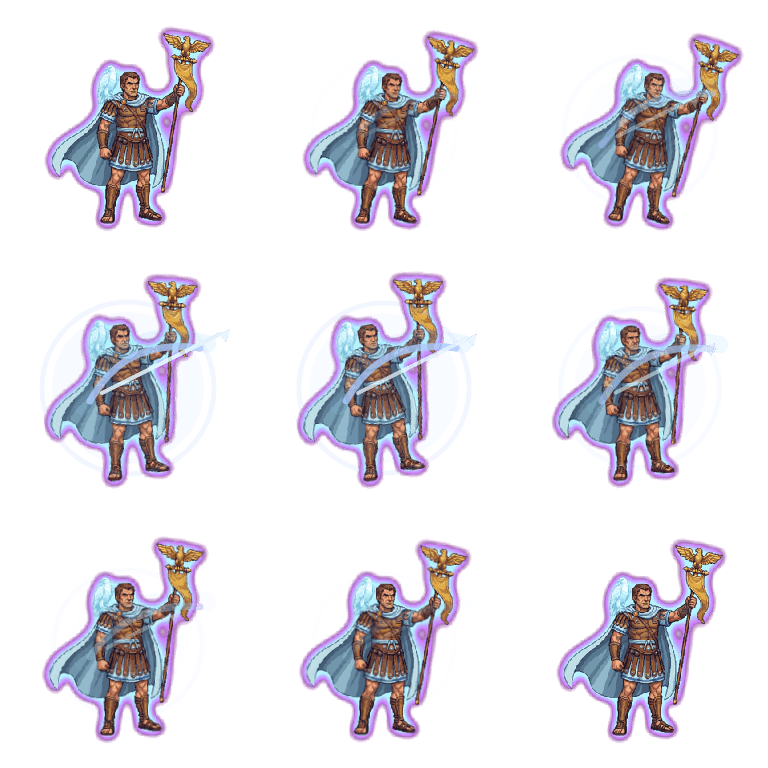
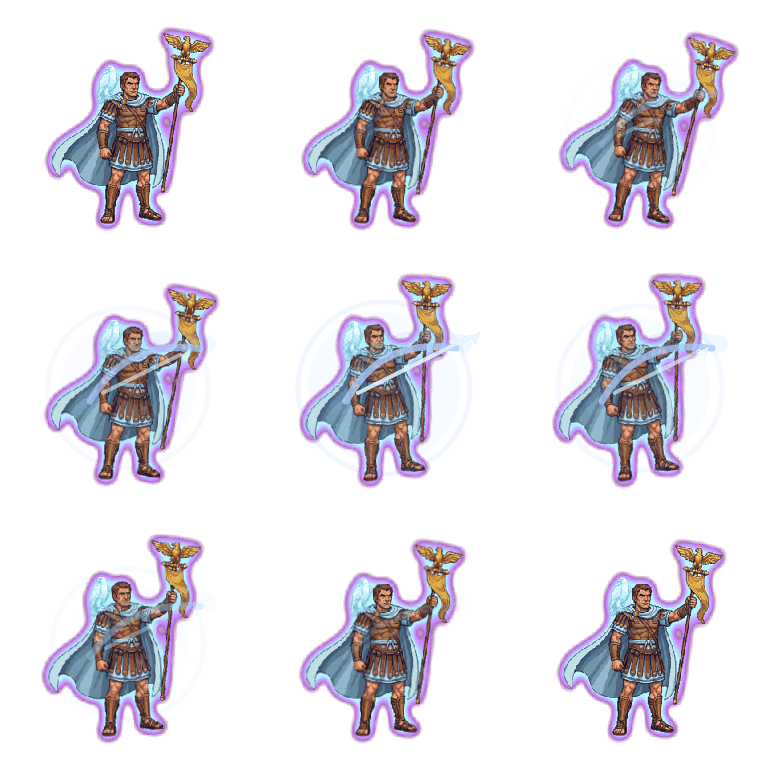
Smooth attack sprite animation cycles

diff --git a/src/render/RenderEngine.ts b/src/render/RenderEngine.ts
@@ -53,6 +53,7 @@ const HERO_ATTACK_FRAME_COUNT = 9;
 const BASE_TOWER_ATTACK_FRAME_SIZE = 128;
 const BASE_TOWER_ATTACK_FRAME_COUNT = 9;
 const ATTACK_SHEET_COLUMNS = 3;
+const HERO_ATTACK_WINDOW = 0.50;
 
 const MAX_TRANSIENT_SLASHES = 72;
 const MAX_TRANSIENT_MUZZLE_FLASHES = 96;
@@ -3472,14 +3473,14 @@ export class RenderEngine {
       // Attack flash + recoil: stronger brightening, scale jump, kickback offset
       // along the firing direction for satisfying combat feel.
       const hasBaseAttackSheet = isBaseTowerAttackAnimated(String(tw.type));
-      const flashWindow = tw.isHero ? 0.42 : hasBaseAttackSheet ? baseTowerAttackFlashWindow(String(tw.type)) : 0.18;
+      const flashWindow = tw.isHero ? HERO_ATTACK_WINDOW : hasBaseAttackSheet ? baseTowerAttackFlashWindow(String(tw.type)) : 0.18;
       const flashT = tw.attackFlash > 0 ? Math.min(1, tw.attackFlash / flashWindow) : 0;
       const heroIdentity = heroIdForTowerType(String(tw.type));
       let usingHeroAttackSheet = false;
       if (tw.isHero && heroIdentity && flashT > 0) {
         const sheetKey = HERO_ATTACK_SHEET_FOR[heroIdentity];
         const frameAge = Math.max(0, Math.min(0.999, 1 - flashT));
-        const frameIndex = Math.min(HERO_ATTACK_FRAME_COUNT - 1, 1 + Math.floor(frameAge * (HERO_ATTACK_FRAME_COUNT - 1)));
+        const frameIndex = Math.min(HERO_ATTACK_FRAME_COUNT - 1, Math.floor(frameAge * HERO_ATTACK_FRAME_COUNT));
         const attackTex = sheetKey
           ? texGridFrame(sheetKey, frameIndex, HERO_ATTACK_FRAME_SIZE, HERO_ATTACK_FRAME_SIZE, ATTACK_SHEET_COLUMNS)
           : null;
@@ -3488,7 +3489,7 @@ export class RenderEngine {
         usingHeroAttackSheet = !!attackTex;
       } else if (hasBaseAttackSheet && flashT > 0) {
         const frameAge = Math.max(0, Math.min(0.999, 1 - flashT));
-        const frameIndex = Math.min(BASE_TOWER_ATTACK_FRAME_COUNT - 1, 1 + Math.floor(frameAge * (BASE_TOWER_ATTACK_FRAME_COUNT - 1)));
+        const frameIndex = Math.min(BASE_TOWER_ATTACK_FRAME_COUNT - 1, Math.floor(frameAge * BASE_TOWER_ATTACK_FRAME_COUNT));
         const attackTex = texGridFrame(`ATTACK_${tw.type}`, frameIndex, BASE_TOWER_ATTACK_FRAME_SIZE, BASE_TOWER_ATTACK_FRAME_SIZE, ATTACK_SHEET_COLUMNS);
         const idleTex = tex(tw.type);
         entry.sp.texture = attackTex ?? idleTex ?? entry.sp.texture;

diff --git a/tests/feature_audit.test.ts b/tests/feature_audit.test.ts
@@ -112,6 +112,13 @@ describe('Every authored recipe is discoverable + executable', () => {
 // 2. Tower roster integrity
 // ───────────────────────────────────────────────────────────────────────
 describe('Tower roster integrity', () => {
+  function meanFrameDiff(a: Buffer, b: Buffer): number {
+    const len = Math.min(a.length, b.length);
+    let diff = 0;
+    for (let i = 0; i < len; i++) diff += Math.abs(a[i] - b[i]);
+    return diff / Math.max(1, len);
+  }
+
   it('every tower id in towers.json has matching TowerType enum entry', () => {
     const enumKeys = new Set(Object.values(TowerType));
     for (const tid of Object.keys(towersData as any)) {
@@ -157,6 +164,9 @@ describe('Tower roster integrity', () => {
       let tinyAlpha = 0;
       for (let i = 3; i < data.length; i += 4) if (data[i] > 0 && data[i] <= 4) tinyAlpha++;
       expect(tinyAlpha, `${id} hero attack sheet has barely-visible alpha dust that can look like a dirty background`).toBe(0);
+      const first = await sharp(file).extract({ left: 0, top: 0, width: 256, height: 256 }).ensureAlpha().raw().toBuffer();
+      const ninth = await sharp(file).extract({ left: 512, top: 512, width: 256, height: 256 }).ensureAlpha().raw().toBuffer();
+      expect(meanFrameDiff(first, ninth), `${id} hero attack frame 9 should visibly settle back to idle frame 1`).toBeLessThan(0.05);
     }
   });
 
@@ -181,6 +191,9 @@ describe('Tower roster integrity', () => {
       let tinyAlpha = 0;
       for (let i = 3; i < data.length; i += 4) if (data[i] > 0 && data[i] <= 4) tinyAlpha++;
       expect(tinyAlpha, `${id} attack sheet has barely-visible alpha dust that can look like a dirty background`).toBe(0);
+      const first = await sharp(file).extract({ left: 0, top: 0, width: 128, height: 128 }).ensureAlpha().raw().toBuffer();
+      const ninth = await sharp(file).extract({ left: 256, top: 256, width: 128, height: 128 }).ensureAlpha().raw().toBuffer();
+      expect(meanFrameDiff(first, ninth), `${id} attack frame 9 should visibly settle back to idle frame 1`).toBeLessThan(0.05);
     }
   });
 

diff --git a/src/systems/CombatResolver.ts b/src/systems/CombatResolver.ts
@@ -1386,7 +1386,7 @@ export function tickCombat(state: GameStateShape, dt: number, hooks: CombatHooks
         (target as any).__weatherMissTick = state.tick;
       }
       const hasBaseAttackSheet = isBaseTowerAttackAnimated(String(t.type));
-      t.attackFlash = t.isHero ? 0.42 : hasBaseAttackSheet ? baseTowerAttackFlashWindow(String(t.type)) : 0.18;     // game-feel flash on every attack; heroes + base towers get readable attack VFX
+      t.attackFlash = t.isHero ? 0.50 : hasBaseAttackSheet ? baseTowerAttackFlashWindow(String(t.type)) : 0.18;     // game-feel flash on every attack; heroes + base towers get readable attack VFX
       // Compute "in melee/range" enemies once for cleave + multi-shot lookups.
       const tcx = tilePxX(t);
       const tcy = tilePxY(t);

diff --git a/src/types.ts b/src/types.ts
@@ -444,7 +444,7 @@ export interface Tower {
   duplicateBumped?: number;       // tier bump from duplicate-card upgrade
   isAerarium: boolean;      // shortcut
   pending: boolean;         // Gem TD: just-placed, awaiting KEEP-or-convert decision
-  attackFlash: number;      // 0..0.18s normally; heroes use a longer readable attack window
+  attackFlash: number;      // 0..0.18s normally; heroes use a longer readable 9-frame attack window
   // Gold actually paid to create this tower (place cost, OR combo cost when applicable).
   // Sell refund = floor(costPaid / 2). Defaults to TIER_PLACE_COST[tier] if unknown.
   costPaid?: number;
